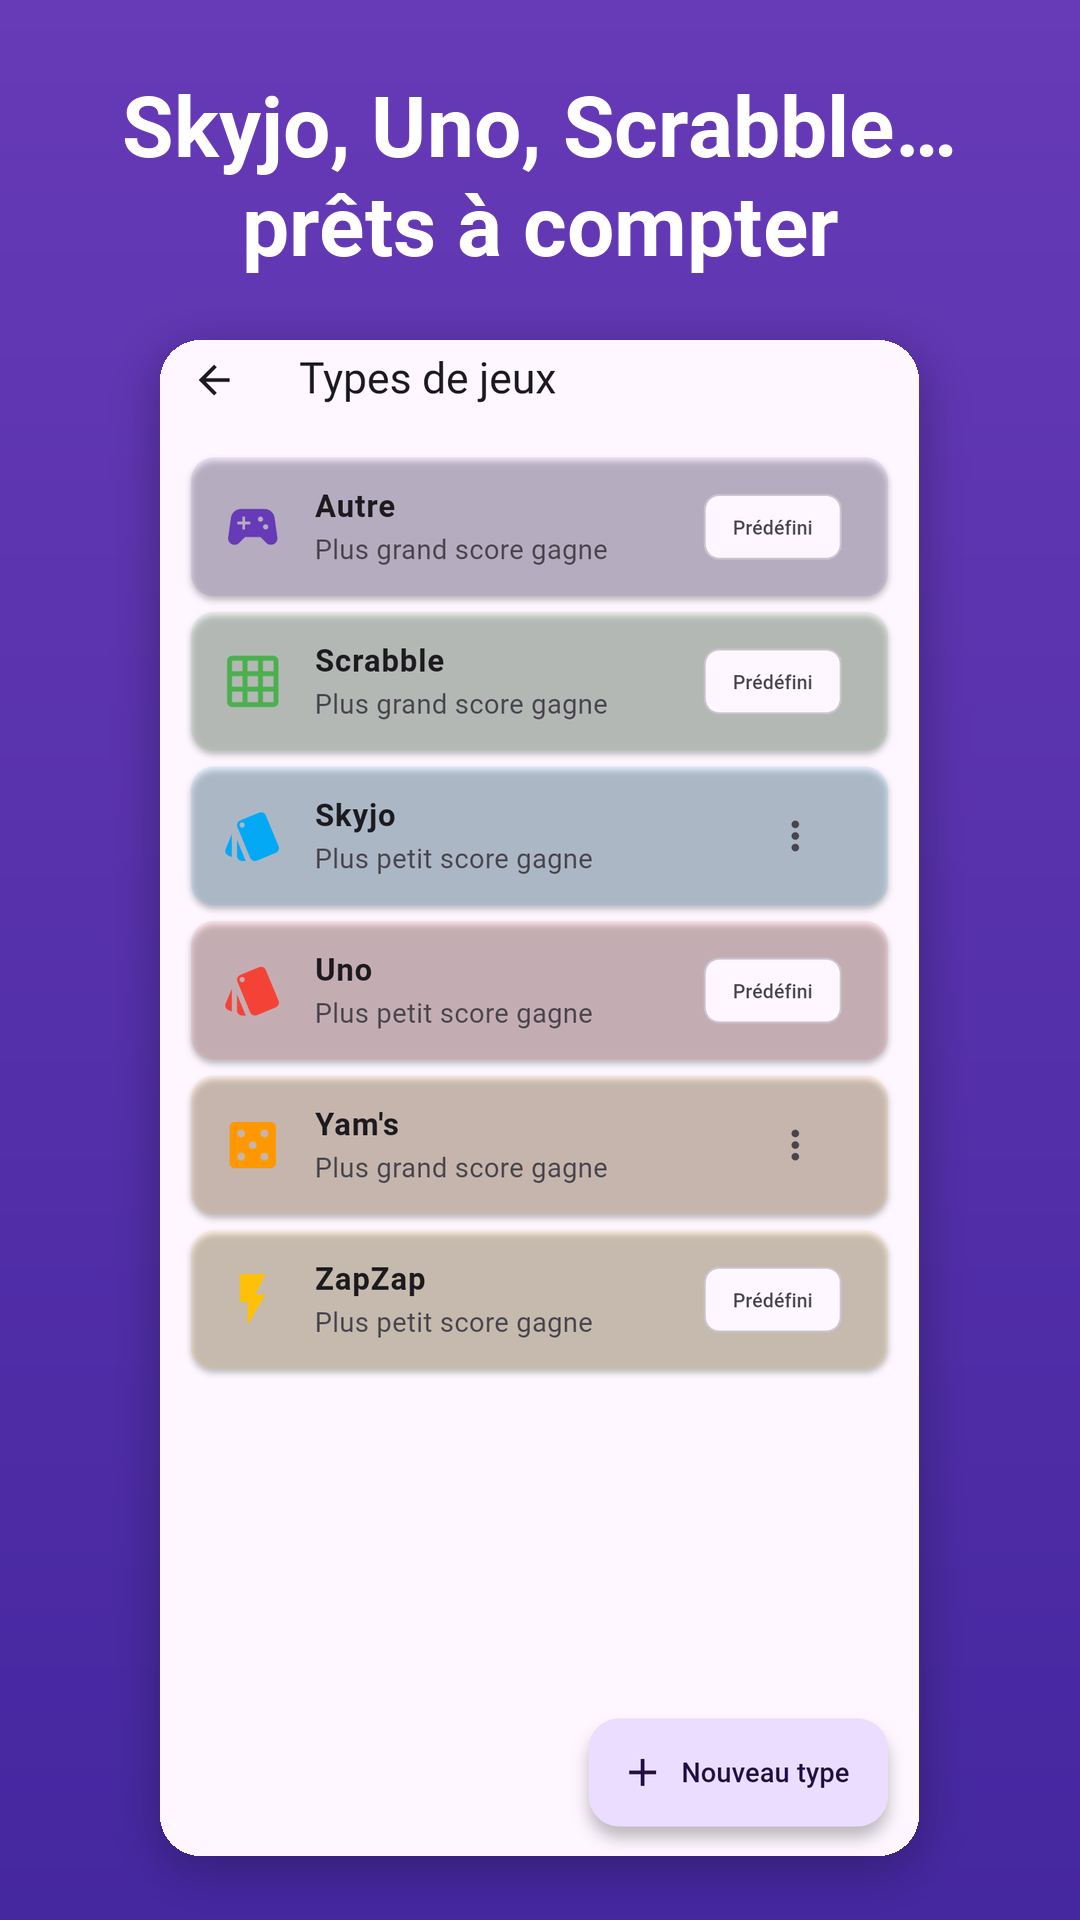
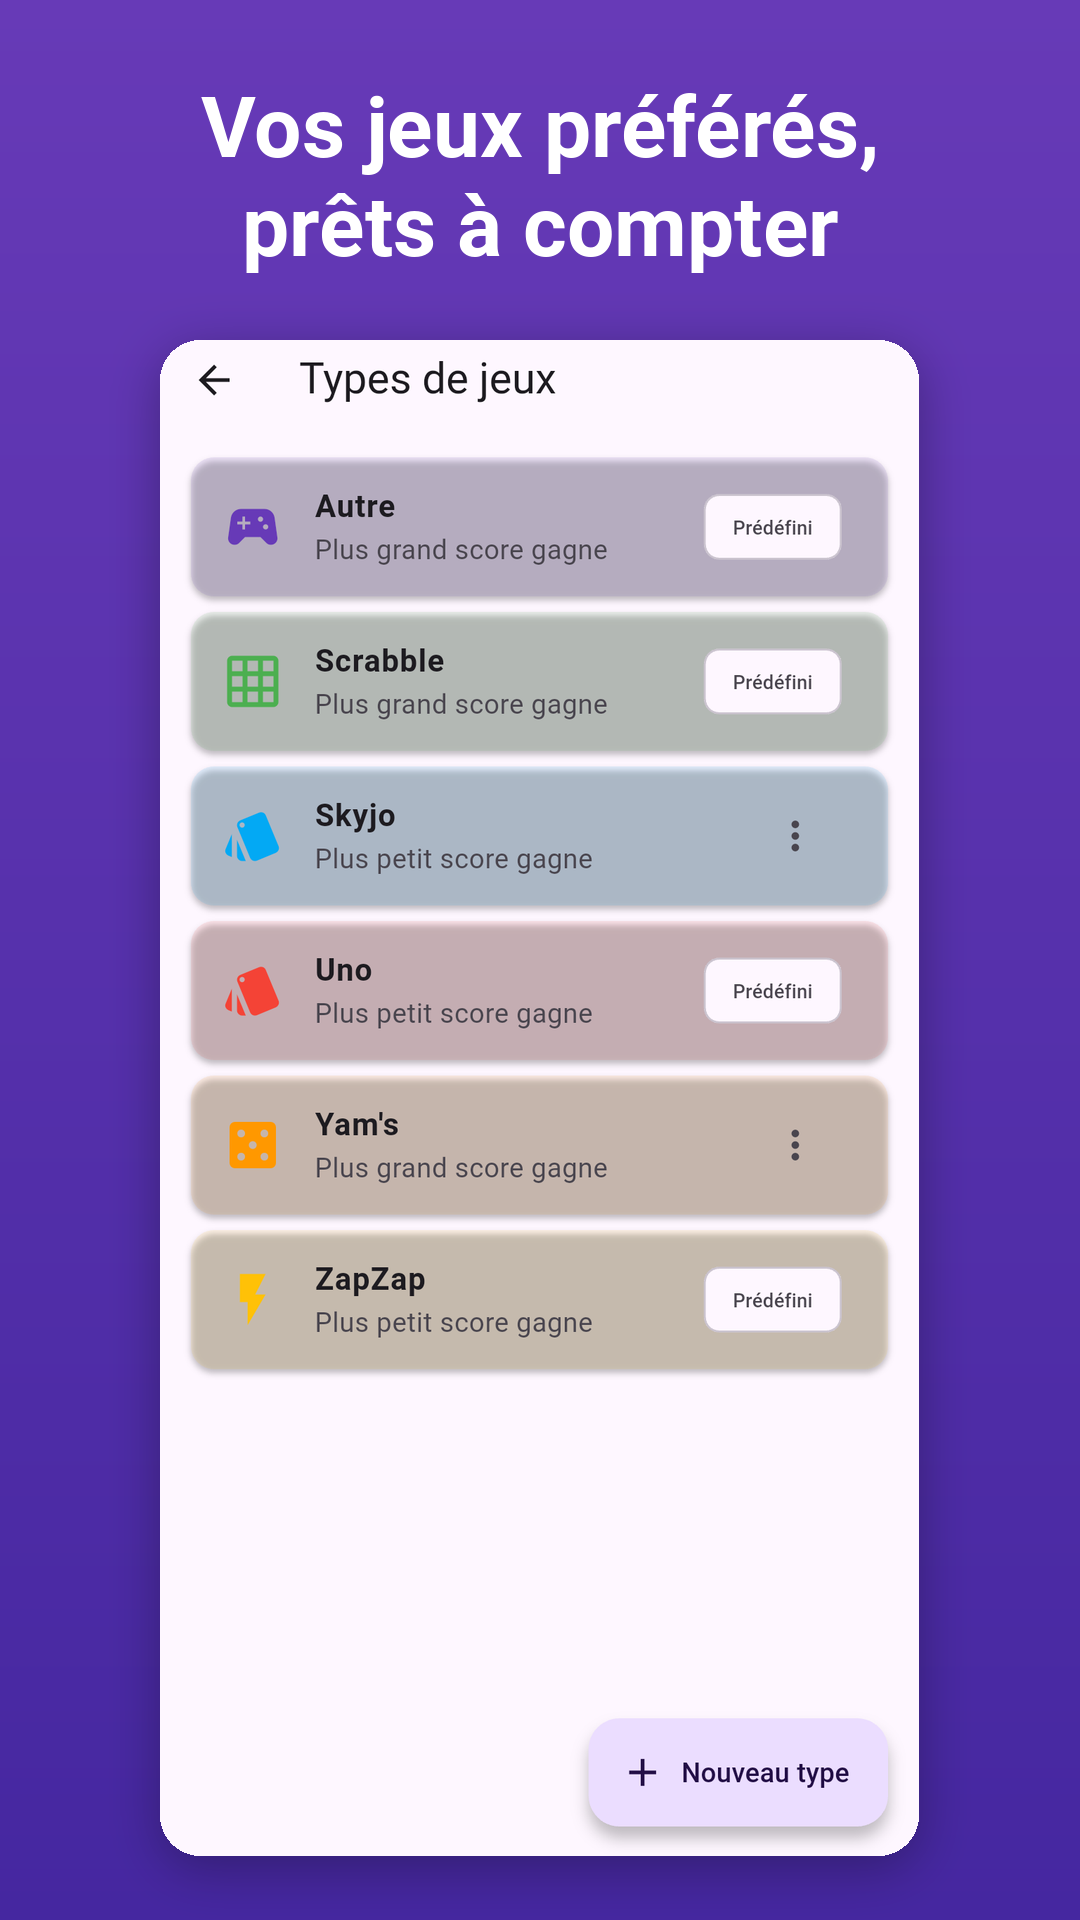
feat: compose the store screenshots for all ten store locales
The user validated the French captions, with #3 naming no game: « Vos jeux préférés,
prêts à compter ». The nine other locales are translated from them, and all ten sets are
composed; compose_screenshots.py --check exits 0.

The composer learns what those scripts need: the Simplified Chinese face of the CJK
collection for zh-CN, libraqm shaping required for ar and hi-IN, `|` to force a line break
where there are no spaces, and a break after a clause in preference to an even split.

Closes wip/done/2026-09-16-screenshots-are-raw-captures.md.

Changed region(s): [[0.1222, 0.0312, 0.8861, 0.0938]]

diff --git a/scripts/compose_screenshots.py b/scripts/compose_screenshots.py
@@ -13,7 +13,8 @@
 
 Input: the raw `adb` captures in store_listing/assets/screenshots/phone/ (written by
 scripts/capture_screenshots.sh) and, per locale, store_listing/<locale>/screenshot_captions.txt:
-one `<capture stem>: <caption>` line per capture, `#` for a comment.
+one `<capture stem>: <caption>` line per capture, `#` for a comment, `|` to force the line
+break (for the scripts written without spaces, where the automatic wrap may split a word).
 
 Output: store_listing/<locale>/screenshots/phone/<capture name>.png, 1080x1920 opaque RGB —
 the caption in a band above the screen, the status and navigation bars cropped off. That
@@ -72,6 +73,16 @@ FONTS: dict[str, tuple[str, ...]] = {
 }
 DEFAULT_FONTS = ("Roboto-Bold.ttf",)
 RTL_LOCALES = {"ar"}
+# A .ttc holds several faces: the CJK collection is JP, KR, SC, TC, HK in that order, and
+# the Chinese listing must get the Simplified Chinese glyph shapes, not the Japanese ones.
+FONT_INDEX = {"zh-CN": 2}
+# Scripts whose glyphs must be shaped (joined, reordered): without libraqm Pillow draws them
+# as isolated, wrongly ordered letters — legible to nobody who reads the language.
+SHAPED_LOCALES = {"ar", "hi-IN"}
+LANGUAGE = {"ar": "ar", "hi-IN": "hi", "ja-JP": "ja", "zh-CN": "zh-Hans"}
+# A line break after one of these ends a clause (Latin, Arabic, CJK and dash punctuation).
+CLAUSE_END = (",", "?", ":", "!", ";", "—", "،", "؟", "，", "？", "：", "、")
+BREAK = "|"  # in a caption, forces the line break there (and is not drawn)
 # Scripts written without spaces between words: wrap on characters, not on words.
 NO_SPACE_LOCALES = {"ja-JP", "zh-CN"}
 FONT_DIRS = (
@@ -181,19 +192,30 @@ def wrap(text: str, font: ImageFont.FreeTypeFont, max_width: int, by_char: bool)
 def balance(
     lines: list[str], text: str, font: ImageFont.FreeTypeFont, max_width: int, by_char: bool
 ) -> list[str]:
-    """Two lines of similar length read better than a full line and a widow."""
+    """Where to break two lines: after a clause if one fits, else at the most even split.
+
+    A break after the comma, question mark or colon that ends a clause reads as two phrases;
+    an even split in mid-phrase ("Your game is not / listed? Create it") reads as a typo.
+    """
     if len(lines) != 2:
         return lines
     tokens = list(text) if by_char else text.split(" ")
     joiner = "" if by_char else " "
-    best = lines
-    best_width = max(font.getlength(line) for line in lines)
+    best, best_width, best_clause = lines, max(font.getlength(line) for line in lines), False
     for i in range(1, len(tokens)):
         a, b = joiner.join(tokens[:i]), joiner.join(tokens[i:])
         width = max(font.getlength(a), font.getlength(b))
-        if width <= max_width and width < best_width:
-            best, best_width = [a, b], width
+        if width > max_width:
+            continue
+        clause = a.rstrip().endswith(CLAUSE_END)
+        if (clause and not best_clause) or (clause == best_clause and width < best_width):
+            best, best_width, best_clause = [a, b], width, clause
     return best
+
+
+def load_font(font_path: Path, size: int, locale: str) -> ImageFont.FreeTypeFont:
+    index = FONT_INDEX.get(locale, 0) if font_path.suffix.lower() == ".ttc" else 0
+    return ImageFont.truetype(str(font_path), size, index=index)
 
 
 def fit_caption(
@@ -201,8 +223,13 @@ def fit_caption(
 ) -> tuple[ImageFont.FreeTypeFont, list[str]]:
     by_char = locale in NO_SPACE_LOCALES
     max_width = WIDTH - 2 * SIDE_MARGIN
+    forced = [part.strip() for part in text.split(BREAK)] if BREAK in text else None
     for size in range(MAX_FONT_SIZE, MIN_FONT_SIZE - 1, -2):
-        font = ImageFont.truetype(str(font_path), size)
+        font = load_font(font_path, size, locale)
+        if forced:
+            if len(forced) <= MAX_LINES and all(font.getlength(p) <= max_width for p in forced):
+                return font, forced
+            continue
         lines = wrap(text, font, max_width, by_char)
         if len(lines) <= MAX_LINES and all(font.getlength(line) <= max_width for line in lines):
             return font, balance(lines, text, font, max_width, by_char)
@@ -228,12 +255,14 @@ def compose(raw: Image.Image, caption: str, font_path: Path, locale: str) -> Ima
     # Caption, centred in the band.
     font, lines = fit_caption(caption, font_path, locale)
     kwargs: dict[str, str] = {}
+    if locale in SHAPED_LOCALES and not features.check("raqm"):
+        raise ComposeError(
+            f"{locale}: Pillow was built without libraqm; the text would not be shaped"
+        )
+    if locale in LANGUAGE and features.check("raqm"):
+        kwargs["language"] = LANGUAGE[locale]
     if locale in RTL_LOCALES:
-        if not features.check("raqm"):
-            raise ComposeError(
-                f"{locale}: Pillow was built without libraqm; Arabic would not be shaped"
-            )
-        kwargs = {"direction": "rtl", "language": "ar"}
+        kwargs["direction"] = "rtl"
     line_height = round(font.size * LINE_SPACING)
     block = line_height * len(lines)
     y = (BAND_HEIGHT - block) // 2 + round(font.size * 0.1)

diff --git a/scripts/test_compose_screenshots.py b/scripts/test_compose_screenshots.py
@@ -108,3 +108,22 @@ def test_committed_sets_are_compliant() -> None:
     assert sets, "no composed set committed"
     for path in sets:
         assert cs.check_image(path) is None
+
+
+def test_a_forced_break_is_kept_and_not_drawn() -> None:
+    _, lines = cs.fit_caption("All your|games", Path(font()), "en-US")
+    assert lines == ["All your", "games"]
+
+
+def test_the_break_prefers_the_end_of_a_clause() -> None:
+    f = cs.load_font(Path(font()), 84, "en-US")
+    lines = cs.balance(
+        ["Game not", "listed? Create it"], "Game not listed? Create it", f, 936, False
+    )
+    assert lines == ["Game not listed?", "Create it"]
+
+
+def test_every_store_locale_has_captions() -> None:
+    """A store locale without captions would publish the raw captures Play refuses."""
+    for locale in cs.listing_locales(REPO):
+        assert (REPO / "store_listing" / locale / cs.CAPTIONS_FILE).is_file(), locale

diff --git a/.llmwiki/StoreListing.md b/.llmwiki/StoreListing.md
@@ -41,11 +41,18 @@ first, so `listing --graphics` publishes the composed set with no change to the 
   captions file is skipped with a warning — **and `play_publish.py` then falls back to the raw
   captures for it**, which `--check` reports as a missing set.
 - Fonts: Roboto Bold from the Flutter SDK's `material_fonts` cache for the Latin and Cyrillic
-  locales; `ja-JP`, `zh-CN`, `hi-IN`, `ar` need a Noto font installed (`FONTS` in the script),
-  and `ar` a Pillow built with libraqm for shaping. `--font` overrides.
-- State on 2026-09-18: **`fr-FR` only** is composed; its eight captions await the user's
-  validation in the pull request, and the nine other locales are translated from them
-  afterwards (`wip/todo/2026-09-16-screenshots-are-raw-captures.md`).
+  locales; Noto Sans CJK (face 0, Japanese, for `ja-JP`; face 2, Simplified Chinese, for
+  `zh-CN`), Noto Sans Devanagari and Noto Sans Arabic from `fonts-noto-cjk` / `fonts-noto-core`.
+  `ar` and `hi-IN` refuse to compose without a Pillow built with libraqm: unshaped, both
+  scripts render as disconnected, misordered letters. `--font` overrides.
+- A line breaks after a clause (`,` `?` `:` `—` and their Arabic and CJK forms) when one
+  fits, else at the most even split. `ja-JP` and `zh-CN` have no spaces to wrap on, so their
+  captions force the break with `|`.
+- **All ten locales are composed** (2026-09-18) and `--check` exits 0. The French captions
+  were validated by the user — with #3 changed to name no game, see the decision below — and
+  the nine others are translated from them. **Not yet on Play**: that is `play_publish.py
+  listing --graphics --commit`, on the user's go. The screens themselves stay French in every
+  locale: the captures are shared, only the caption is localized.
 
 ### Published locales (10, since 2026-09-16)
 
@@ -107,6 +114,8 @@ prose.
 - **No third-party game name in `title.txt`.** Uno, Skyjo, Scrabble, Phase 10 and Yahtzee are
   trademarks; the title is where Play enforces it. Descriptive use in the descriptions is
   framed as "works for your games of …", never "official app".
+- **No third-party game name in the screenshot captions** either (the user's call, 2026-09-18):
+  artwork reads as endorsement where a sentence of the description reads as description.
 - **No keyword stuffing** (Play Metadata policy): the games are named in sentences, not in a
   comma block.
 - The description **explains** the Data Safety card rather than contradicting it — three data
@@ -190,7 +199,11 @@ store:
   shared: re-capturing the UI in ten languages costs a device session per locale for a screen
   the caption already explains. Claude drafts the French captions from the listing copy, the
   user validates them, the other locales are translated from them.
-
+- **No game brand names in the store images (2026-09-18).** The draft caption for the game
+  types screen named three third-party games; the user replaced it with « Vos jeux préférés,
+  prêts à compter ». Brand names stay in the description, where they are framed as
+  descriptive use, and out of the artwork, where they read as endorsement. Closed
+  `wip/done/2026-09-16-screenshots-are-raw-captures.md`.
 - **The analysis line was rewritten in all ten locales, feature-first (2026-09-17).** Line 38
   of every `full_description.txt` sold the feature as the "ZapZap analysis", which was true
   when it only ran on that one game. It has covered every game type, in nine voices and the

diff --git a/store_listing/ASSET_REQUIREMENTS.md b/store_listing/ASSET_REQUIREMENTS.md
@@ -5,11 +5,10 @@ Complete specifications and guidelines for creating Google Play Store visual ass
 **Last Updated**: September 16, 2026
 **Target**: Google Play Store listing for CountScore v1.1.0 and later
 
-> The icon, the feature graphic and eight phone screenshots are **committed and published**
-> (`assets/`), so the "what you need to create" framing below applies only to what is still
-> missing: compliant screenshots and a tablet set. See
-> `wip/todo/2026-09-16-screenshots-are-raw-captures.md` and
-> `.llmwiki/StoreListing.md`.
+> The icon, the feature graphic and eight phone screenshots are **committed** (`assets/`), and
+> each store locale has its composed, compliant screenshot set (`<locale>/screenshots/phone/`,
+> from `scripts/compose_screenshots.py`), so the "what you need to create" framing below
+> applies only to what is still missing: a tablet set. See `.llmwiki/StoreListing.md`.
 
 ---
 
@@ -289,10 +288,9 @@ A modern phone screen is taller than 16:9 (a Pixel 9 Pro XL captures 1080×2400)
 > **Status: Composed per locale** (2026-09-18) — the eight PNGs in
 > `assets/screenshots/phone/` are still raw `8-bit/color RGBA` captures, but they are now only
 > the input of `scripts/compose_screenshots.py`, which writes the 1080×1920 opaque RGB set of
-> each locale to `<locale>/screenshots/phone/`. `--check` verifies every locale has one. Until
-> a locale has its set, `play_publish.py` falls back to the raw captures for it — `fr-FR` has
-> its set; the nine others follow once the French captions are validated
-> (`wip/todo/2026-09-16-screenshots-are-raw-captures.md`).
+> each locale to `<locale>/screenshots/phone/`. All ten locales have their set, and `--check`
+> verifies it; a locale added without one would fall back to the raw captures. Closed
+> `wip/done/2026-09-16-screenshots-are-raw-captures.md`.
 
 **File Size**: Maximum 8 MB per screenshot
 

diff --git a/wip/todo_nr/2026-09-18-store-screenshots-show-french-ui-everywhere.md b/wip/todo_nr/2026-09-18-store-screenshots-show-french-ui-everywhere.md
@@ -1,0 +1,23 @@
+# Every store locale's screenshots show the French UI
+
+- **Noted:** 2026-09-18 — while composing the ten per-locale screenshot sets (`feat/composed-screenshots`)
+- **Theme:** store-listing
+- **Area:** docs
+- **Blocks release:** no
+
+`scripts/compose_screenshots.py` localizes only the caption band. The screen under it comes
+from the one shared set of raw captures in `store_listing/assets/screenshots/phone/`, taken
+with the phone in French. So the `ja-JP`, `ar` or `hi-IN` visitor reads a caption in their
+language above « Liste des joueurs », « Nouvelle partie » and a French keyboard, even though
+the app itself ships in their language.
+
+**Fix:** let the composer read `store_listing/<locale>/raw/*.png` before the shared set, and
+capture each locale with the device (or an emulator) switched to that language
+(`scripts/capture_screenshots.sh` with a locale argument, `adb shell cmd locale` or the
+per-app language setting). Players and game names in the demo data can stay the same. Best
+done in the same session as the re-capture in
+`wip/todo_nr/2026-09-18-screenshot-04-duplicates-01.md`.
+
+**Acceptance:**
+- The composed `ja-JP` set shows the Japanese UI under the Japanese caption.
+- `compose_screenshots.py --check` still exits 0 on all ten locales.

diff --git a/wip/todo_nr/2026-09-18-screenshot-04-duplicates-01.md b/wip/todo_nr/2026-09-18-screenshot-04-duplicates-01.md
@@ -9,13 +9,15 @@
 screen, same games (p133 … p130), as `01_main_screen.png`. There is no history screen distinct
 from the home list, so the capture repeats slide 1 and spends one of the eight carousel slots
 on nothing new. Its caption ("Retrouvez chaque partie terminée") fits, but the image does not
-show a finished game's score sheet. Also, the captures predate the visual refresh
-(`wip/todo_nr/2026-09-18-app-looks-like-a-default-material-template.md`).
+show a finished game's score sheet. Also, all eight captures predate the visual refresh
+(`wip/done/2026-09-18-app-looks-like-a-default-material-template.md`), so the store shows the
+old look.
 
 **Fix:** re-capture 04 as a finished game's score sheet (the podium or final totals), or a
 screen the carousel lacks (the AI analysis, group sharing), with `scripts/capture_screenshots.sh`,
 adjust the `04_*` caption in every `screenshot_captions.txt`, and re-run
-`scripts/compose_screenshots.py`. Best done after the visual refresh, once for all eight.
+`scripts/compose_screenshots.py`. Re-capture all eight in the same device session, so the
+carousel shows the refreshed UI.
 
 **Acceptance:**
 - No two raw captures in `store_listing/assets/screenshots/phone/` show the same screen.

diff --git a/.llmwiki/Release.md b/.llmwiki/Release.md
@@ -169,8 +169,8 @@ without its `**Last Updated**` line changing ([[Testing]]).
 release to go straight to production through the API, with no internal hop. The same edit
 published the corrected ten-locale listing text (#84); `--graphics` was deliberately left out,
 because the eight phone screenshots are still the wrong ratio
-(`wip/todo/2026-09-16-screenshots-are-raw-captures.md`; `scripts/compose_screenshots.py`
-now composes them, one locale at a time — [[StoreListing]]), so the images on Play are the ones
+(`scripts/compose_screenshots.py` has composed a compliant set per locale since 2026-09-18,
+not yet published — [[StoreListing]]), so the images on Play are the ones
 1.1.0 uploaded. 1.1.0 (4) stays listed as the completed production release beside it until the
 rollout is widened. Internal is still on 1.1.0 (4); beta and closed testing on 1.0.1 (3).
 

diff --git a/wip/done/2026-09-16-screenshots-are-raw-captures.md b/wip/done/2026-09-16-screenshots-are-raw-captures.md
@@ -1,5 +1,7 @@
 # The 8 store screenshots are raw captures in a ratio Play does not accept
 
+**Status:** done (2026-09-18) — closed by feat/composed-screenshots (#113). `scripts/compose_screenshots.py` writes a 1080×1920 opaque RGB set per store locale into `store_listing/<locale>/screenshots/phone/`; the French captions were validated by the user (#3 changed to « Vos jeux préférés, prêts à compter »), the nine others translated from them; `--check` exits 0 on all ten. `play_publish.py validate` was not run: it has no offline mode, validation happens inside `listing --graphics`, which is the user's go.
+
 - **Noted:** 2026-09-16 — while auditing the listing assets against `ASSET_REQUIREMENTS.md`
 - **Theme:** store-listing
 - **Area:** docs
